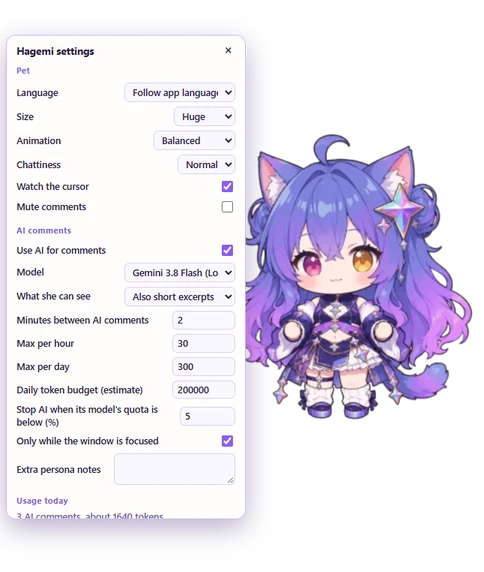
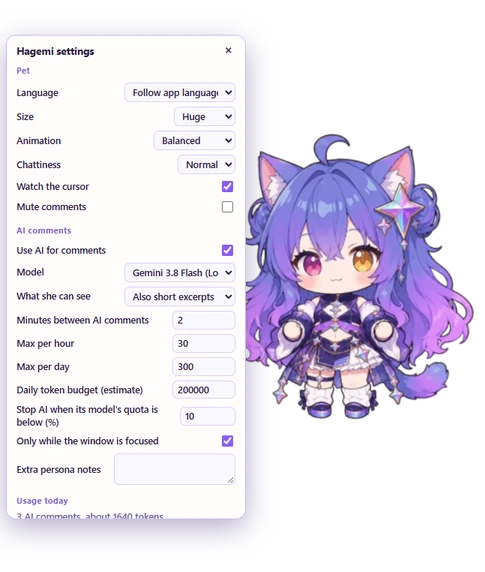
Update changelog, notices, and documentation; adjust AI token management settings

diff --git a/sidecars/pet/renderer/pet.js b/sidecars/pet/renderer/pet.js
@@ -350,7 +350,7 @@ HAGEMI.boot = async function boot(send, options = {}) {
     field(ui.ai_maxPerHour || 'Max per hour', number(ai.maxPerHour, 0, 60, value => patch({ ai: { maxPerHour: value } })));
     field(ui.ai_maxPerDay || 'Max per day', number(ai.maxPerDay, 0, 500, value => patch({ ai: { maxPerDay: value } })));
     field(ui.ai_dailyTokenBudget || 'Daily token budget', number(ai.dailyTokenBudget, 0, 500000, value => patch({ ai: { dailyTokenBudget: value } })));
-    field(ui.ai_pauseBelowQuota || 'Stop below quota %', number(Math.round((ai.pauseBelowQuota ?? 0.15) * 100), 0, 100, value => patch({ ai: { pauseBelowQuota: value / 100 } })));
+    field(ui.ai_pauseBelowQuota || 'Stop below quota %', number(Math.round((ai.pauseBelowQuota ?? 0.1) * 100), 0, 100, value => patch({ ai: { pauseBelowQuota: value / 100 } })));
     field(ui.ai_onlyWhenFocused || 'Only when focused', check(ai.onlyWhenFocused, value => patch({ ai: { onlyWhenFocused: value } })));
     const persona = document.createElement('textarea');
     persona.rows = 2;

diff --git a/README.md b/README.md
@@ -12,8 +12,6 @@ A chibi Gemini catgirl who lives in your [Antigravity](https://antigravity.googl
 
 </div>
 
-Hagemi (哈基米) is what Chinese fans call Gemini, and also a meme about cats. So she is a cat: your quota is her stash of 小鱼干 (dried fish), and every subagent is a tiny copy of her.
-
 ## She works alongside you
 
 <table>
@@ -107,7 +105,7 @@ Hagemi (哈基米) is what Chinese fans call Gemini, and also a meme about cats.
 <td width="300" align="center"><img src="docs/media/language.webp" width="270" alt="A comment in Chinese"></td>
 <td>
 
-She follows Antigravity's language by default, or you can pick one. Her personality takes after the playful Gemini-musume drawn and voiced by Bilibili creators.
+She follows Antigravity's language by default, or you can pick one.
 
 </td>
 </tr>
@@ -145,20 +143,21 @@ The defaults are generous but capped:
 
 - **Model:** Gemini 3.8 Flash (Low), the cheapest. You can pick any model in your list.
 - **How often:** at most one comment every 2 minutes, 30 an hour and 300 a day.
-- **When:** only while the Antigravity window is in front, and never once that model's quota is below 5%.
+- **Token budget:** 200,000 a day (estimated, including prompts and replies).
+- **When:** only while the Antigravity window is in front, and never once that model's quota is below 10%.
 - **Repeats:** never the same situation twice within 6 hours.
 
 Turn AI off and she keeps every hand-written line.
 
 ### What the model sees
 
-Set this under *What she can see*:
+Set this under _What she can see_:
 
 - **Only numbers and tool names:** counts, durations, quota and the time.
 - **Also chat titles.**
-- **Also short excerpts** (default): up to about 100 characters of your last message and 130 of the agent's. Code blocks, links, file paths, long blobs and anything shaped like a credential are removed first.
+- **Also short excerpts** (default): up to about 200 characters of your last message and 1000 of the agent's. Code blocks, links, file paths, long blobs and anything shaped like a credential are removed first.
 
-Excerpts go to the model you selected, which may not be the one the conversation uses. Keystroke *timing* is used to avoid talking over you; the keys themselves are never read. Nothing is stored except her settings and the daily tally.
+Excerpts go to the model you selected, which may not be the one the conversation uses. Keystroke _timing_ is used to avoid talking over you; the keys themselves are never read. Nothing is stored except her settings and the daily tally.
 
 ## Settings
 
@@ -189,6 +188,6 @@ Inspired by [CrossPet](https://github.com/lokicorvus/crosspet) by lokicorvus and
 ## License
 
 - **Code:** [MIT](LICENSE).
-- **Art:** [CC BY-NC-SA 4.0](https://creativecommons.org/licenses/by-nc-sa/4.0/), from [CrossPet](https://github.com/lokicorvus/crosspet). This is **non-commercial and share-alike**, so distributing this plugin with its art must stay non-commercial. See [NOTICE.md](NOTICE.md) for credits and details.
+- **Art:** [CC BY-NC-SA 4.0](https://creativecommons.org/licenses/by-nc-sa/4.0/), from [CrossPet](https://github.com/lokicorvus/crosspet).
 
-This is an unofficial fan project, not affiliated with Google. Thanks to lokicorvus and the CrossPet contributors for the art, and to the Bilibili creators whose Gemini-musume made her who she is.
+This is an unofficial fan project, not affiliated with Google. Thanks to lokicorvus and the CrossPet contributors for the art!

diff --git a/README.zh-CN.md b/README.zh-CN.md
@@ -12,8 +12,6 @@
 
 </div>
 
-哈基米是中文社区给 Gemini 起的昵称，也是一个关于猫的梗。所以她是一只猫：你的额度是她囤的小鱼干，每个子代理都是一只迷你版的她。
-
 ## 她陪你一起干活
 
 <table>
@@ -107,7 +105,7 @@
 <td width="300" align="center"><img src="docs/media/zhs/language.webp" width="270" alt="一条英文吐槽"></td>
 <td>
 
-默认跟随 Antigravity 的语言，也可以手动选择。她的性格参考了 B 站创作者笔下俏皮的 Gemini 娘。
+默认跟随 Antigravity 的语言，也可以手动选择。
 
 </td>
 </tr>
@@ -145,7 +143,8 @@ agy plugin uninstall hagemi-pet-agy
 
 - **模型：** Gemini 3.8 Flash (Low)，最省的版本。可以换成你列表里的任何模型。
 - **频率：** 两次吐槽至少间隔 2 分钟，每小时最多 30 次，每天最多 300 次。
-- **时机：** 只在 Antigravity 窗口在前台时调用，该模型额度低于 5% 时不再调用。
+- **Token 预算：** 每天 200,000（估算值，包含提示词和回复）。
+- **时机：** 只在 Antigravity 窗口在前台时调用，该模型额度低于 10% 时不再调用。
 - **重复：** 同样的情况 6 小时内不会再问。
 
 关掉 AI 后，所有手写台词依然都在。
@@ -156,7 +155,7 @@ agy plugin uninstall hagemi-pet-agy
 
 - **只有数字和工具名：** 次数、时长、额度和时间。
 - **加上对话标题。**
-- **再加上简短摘录**（默认）：你最后一句话约 100 字以内，代理最后一句话约 130 字以内。代码块、链接、文件路径、长串字符和形似密钥的内容会先被移除。
+- **再加上简短摘录**（默认）：你最后一句话约 200 字以内，代理最后一句话约 1000 字以内。代码块、链接、文件路径、长串字符和形似密钥的内容会先被移除。
 
 摘录会发给你选的模型，它不一定是当前对话正在用的模型。她只用按键的*时间*来避免打断你，绝不读取按键内容。除了设置和当天用量，什么都不保存。
 
@@ -189,6 +188,6 @@ agy plugin uninstall hagemi-pet-agy
 ## 许可
 
 - **代码：** [MIT](LICENSE)。
-- **美术：** [CC BY-NC-SA 4.0](https://creativecommons.org/licenses/by-nc-sa/4.0/deed.zh-hans)，来自 [CrossPet](https://github.com/lokicorvus/crosspet)。这是**非商业、相同方式共享**的协议，带美术素材分发本插件时必须保持非商业。署名和详情见 [NOTICE.md](NOTICE.md)。
+- **美术：** [CC BY-NC-SA 4.0](https://creativecommons.org/licenses/by-nc-sa/4.0/deed.zh-hans)，来自 [CrossPet](https://github.com/lokicorvus/crosspet)。
 
-这是非官方同人项目，与 Google 无关。感谢 lokicorvus 和 CrossPet 贡献者的美术，也感谢让 Gemini 娘成为她自己的 B 站创作者们。
+这是非官方同人项目，与 Google 无关。感谢 lokicorvus 和 CrossPet 贡献者的美术！

diff --git a/docs/DEVELOPMENT.md b/docs/DEVELOPMENT.md
@@ -103,13 +103,12 @@ A model call has to pass every check below. Small moments stay scripted and free
 | Which moments | finished turns, failures, subagents, quota changes, late nights and more, scaled by chattiness | chattiness |
 | Minimum gap between calls | 2 minutes | yes |
 | Calls per hour / per day | 30 / 300 | yes |
-| Estimated tokens per day | 200,000, about 500 per call | yes |
-| Pause when the comment model's quota is low | below 5% | yes |
+| Estimated tokens per day, including prompts and replies | 200,000 | yes |
+| Pause when the comment model's quota is low | below 10% | yes |
+| Excerpts sent with each call | up to about 200 user characters and 1,000 agent characters, scrubbed first | context level |
 | Only when you are looking | window focused and visible | yes |
 | The same situation twice | never within 6 hours | |
 | After a failure | backs off for 2 to 60 minutes, then uses a scripted line | |
-
-Calls go through Antigravity's own local language server with your signed-in account, so there is no API key, and they count toward your normal quota. Token counts are estimates, because the endpoint does not report usage. Comments made by AI are marked with ✦, and today's tally is in the settings panel.
 
 Calls go through Antigravity's own local language server with your signed-in account, so there is no API key, and they count toward your normal quota. Token counts are estimates, because the endpoint does not report usage. Comments made by AI are marked with ✦, and today's tally is in the settings panel.
 

diff --git a/docs/DEVELOPMENT.zh-CN.md b/docs/DEVELOPMENT.zh-CN.md
@@ -103,13 +103,12 @@ npm run build:under -- --import results.zip --variant s050_a
 | 哪些时刻 | 一轮完成、出错、子代理、额度变化、深夜等，随话量调整 | 话量 |
 | 两次调用的最短间隔 | 2 分钟 | 是 |
 | 每小时 / 每天次数 | 30 / 300 | 是 |
-| 每天估算 Token | 200,000，每次约 500 | 是 |
-| 评论模型额度低时暂停 | 低于 5% | 是 |
+| 每天估算 Token，包含提示词和回复 | 200,000 | 是 |
+| 评论模型额度低时暂停 | 低于 10% | 是 |
+| 每次调用附带的摘录 | 用户约 200 字以内，代理约 1000 字以内，先清理敏感内容 | 上下文范围 |
 | 只在你看着时 | 窗口聚焦且可见 | 是 |
 | 同样的情况重复调用 | 6 小时内不会 | |
 | 失败之后 | 退避 2 到 60 分钟，期间改用台词 | |
-
-调用走 Antigravity 自己的本地语言服务器，使用你已登录的账号，所以不需要 API Key，也会计入你的正常额度。Token 数是估算值，因为接口不返回用量。AI 生成的吐槽会带 ✦ 标记，当天用量可以在设置面板里看到。
 
 调用走 Antigravity 自己的本地语言服务器，使用你已登录的账号，所以不需要 API Key，也会计入你的正常额度。Token 数是估算值，因为接口不返回用量。AI 生成的吐槽会带 ✦ 标记，当天用量可以在设置面板里看到。
 

diff --git a/NOTICE.md b/NOTICE.md
@@ -2,9 +2,9 @@
 
 ## Two licenses
 
-| What | Where | License |
-| --- | --- | --- |
-| Source code | everything except the art below | [MIT](LICENSE) |
+| What          | Where                                             | License                                                               |
+| ------------- | ------------------------------------------------- | --------------------------------------------------------------------- |
+| Source code   | everything except the art below                   | [MIT](LICENSE)                                                        |
 | Character art | `sidecars/pet/art/`, `assets/`, `docs/poses.webp` | [CC BY-NC-SA 4.0](https://creativecommons.org/licenses/by-nc-sa/4.0/) |
 
 The art license is **non-commercial** and **share-alike**. The code can be reused under MIT, but anything
@@ -38,7 +38,7 @@ If you are an original author and object to any of this, please open an issue an
 
 ## Persona
 
-Hagemi's personality draws on running jokes in the Chinese fan community (哈基米, 极其, 人是猫, Nano Banana, and the
+Hagemi's personality draws on running jokes in the Chinese fan community (哈基米, 极其猫, Nano Banana, and the
 AI-girl rivalries seen in Bilibili videos). All dialogue here was written for this project.
 
 ## Trademarks

diff --git a/CHANGELOG.md b/CHANGELOG.md
@@ -21,7 +21,8 @@
 - She always calls you big cat (大号猫猫) now, and her lines no longer use em dashes.
 - Settings now show credits and licenses, including CrossPet.
 - Quota is now 小鱼干 (dried fish) instead of honey, with a new dish illustration where the pile is the meter.
-- Much more generous AI defaults: every 2 minutes, 30 an hour, 300 a day, about 200,000 tokens a day, pausing below 5% quota. More moments get real comments.
+- Much more generous AI defaults: every 2 minutes, 30 an hour, 300 a day, about 200,000 tokens a day, pausing below 10% quota. More moments get real comments.
+- AI excerpts now allow up to about 200 characters from your last message and 1,000 from the agent's, after scrubbing.
 - Settings files now store only what you changed, so future default improvements reach you. Limits you never touched move to the new defaults.
 
 ## 0.1.0
